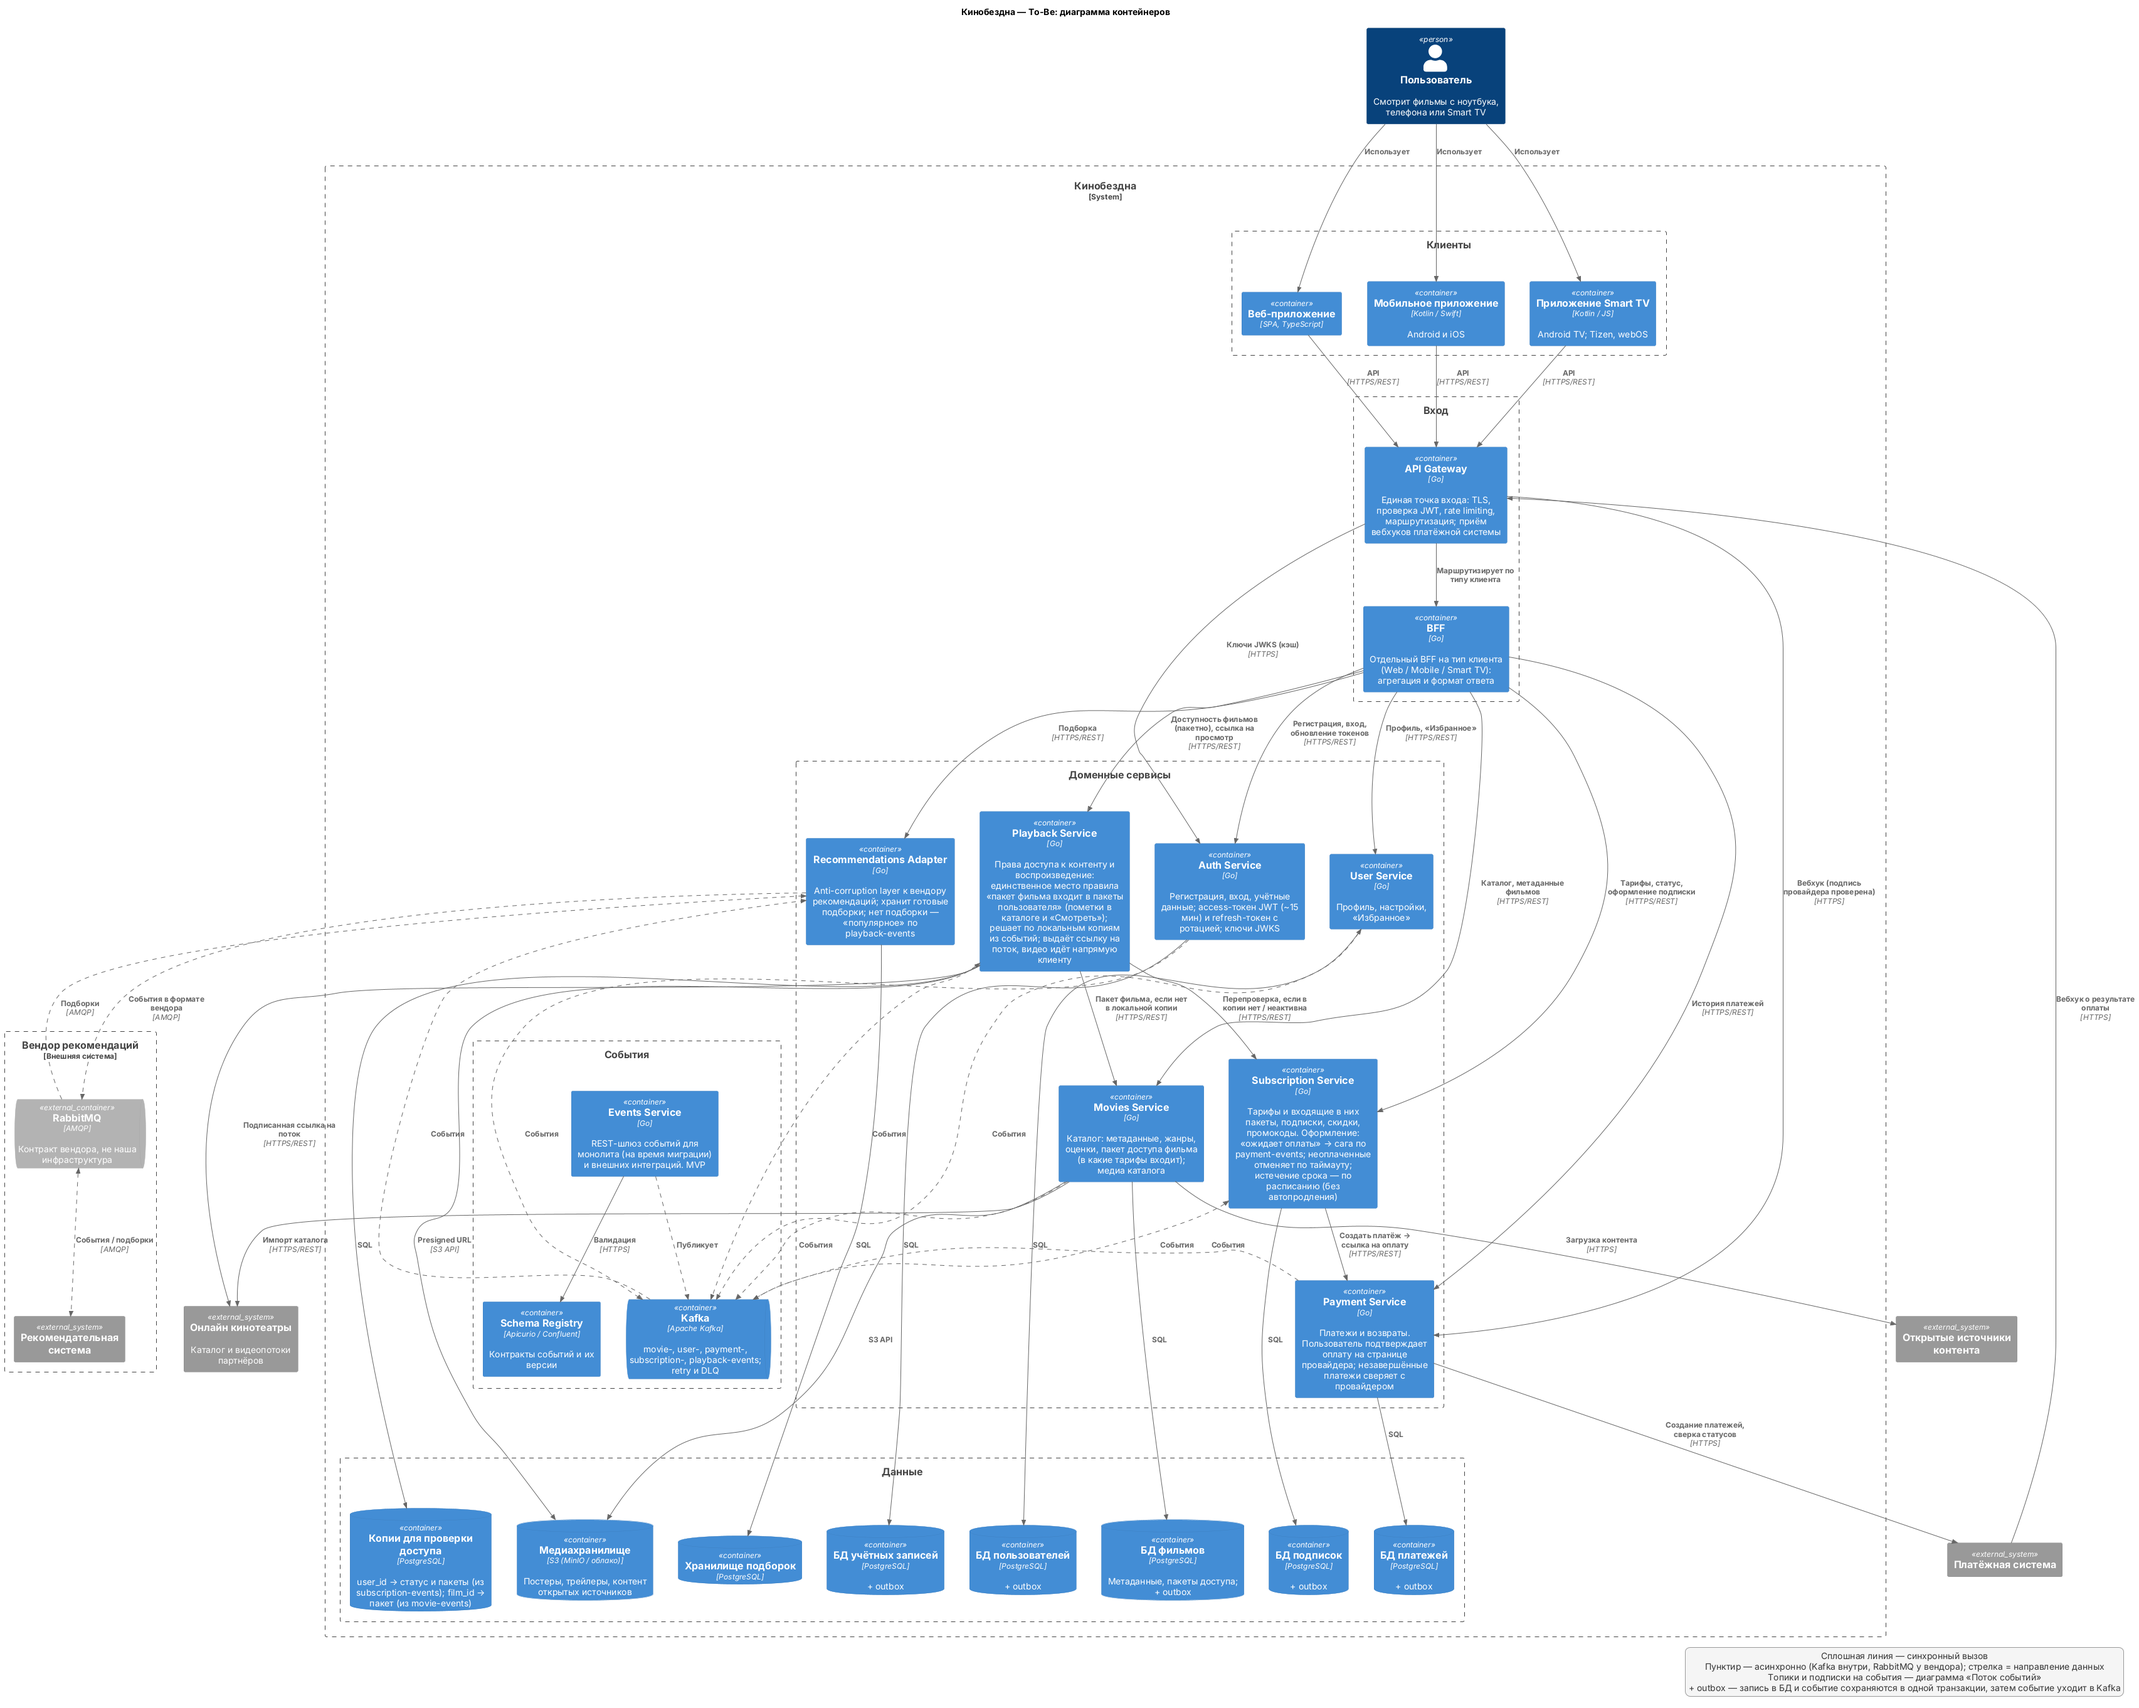
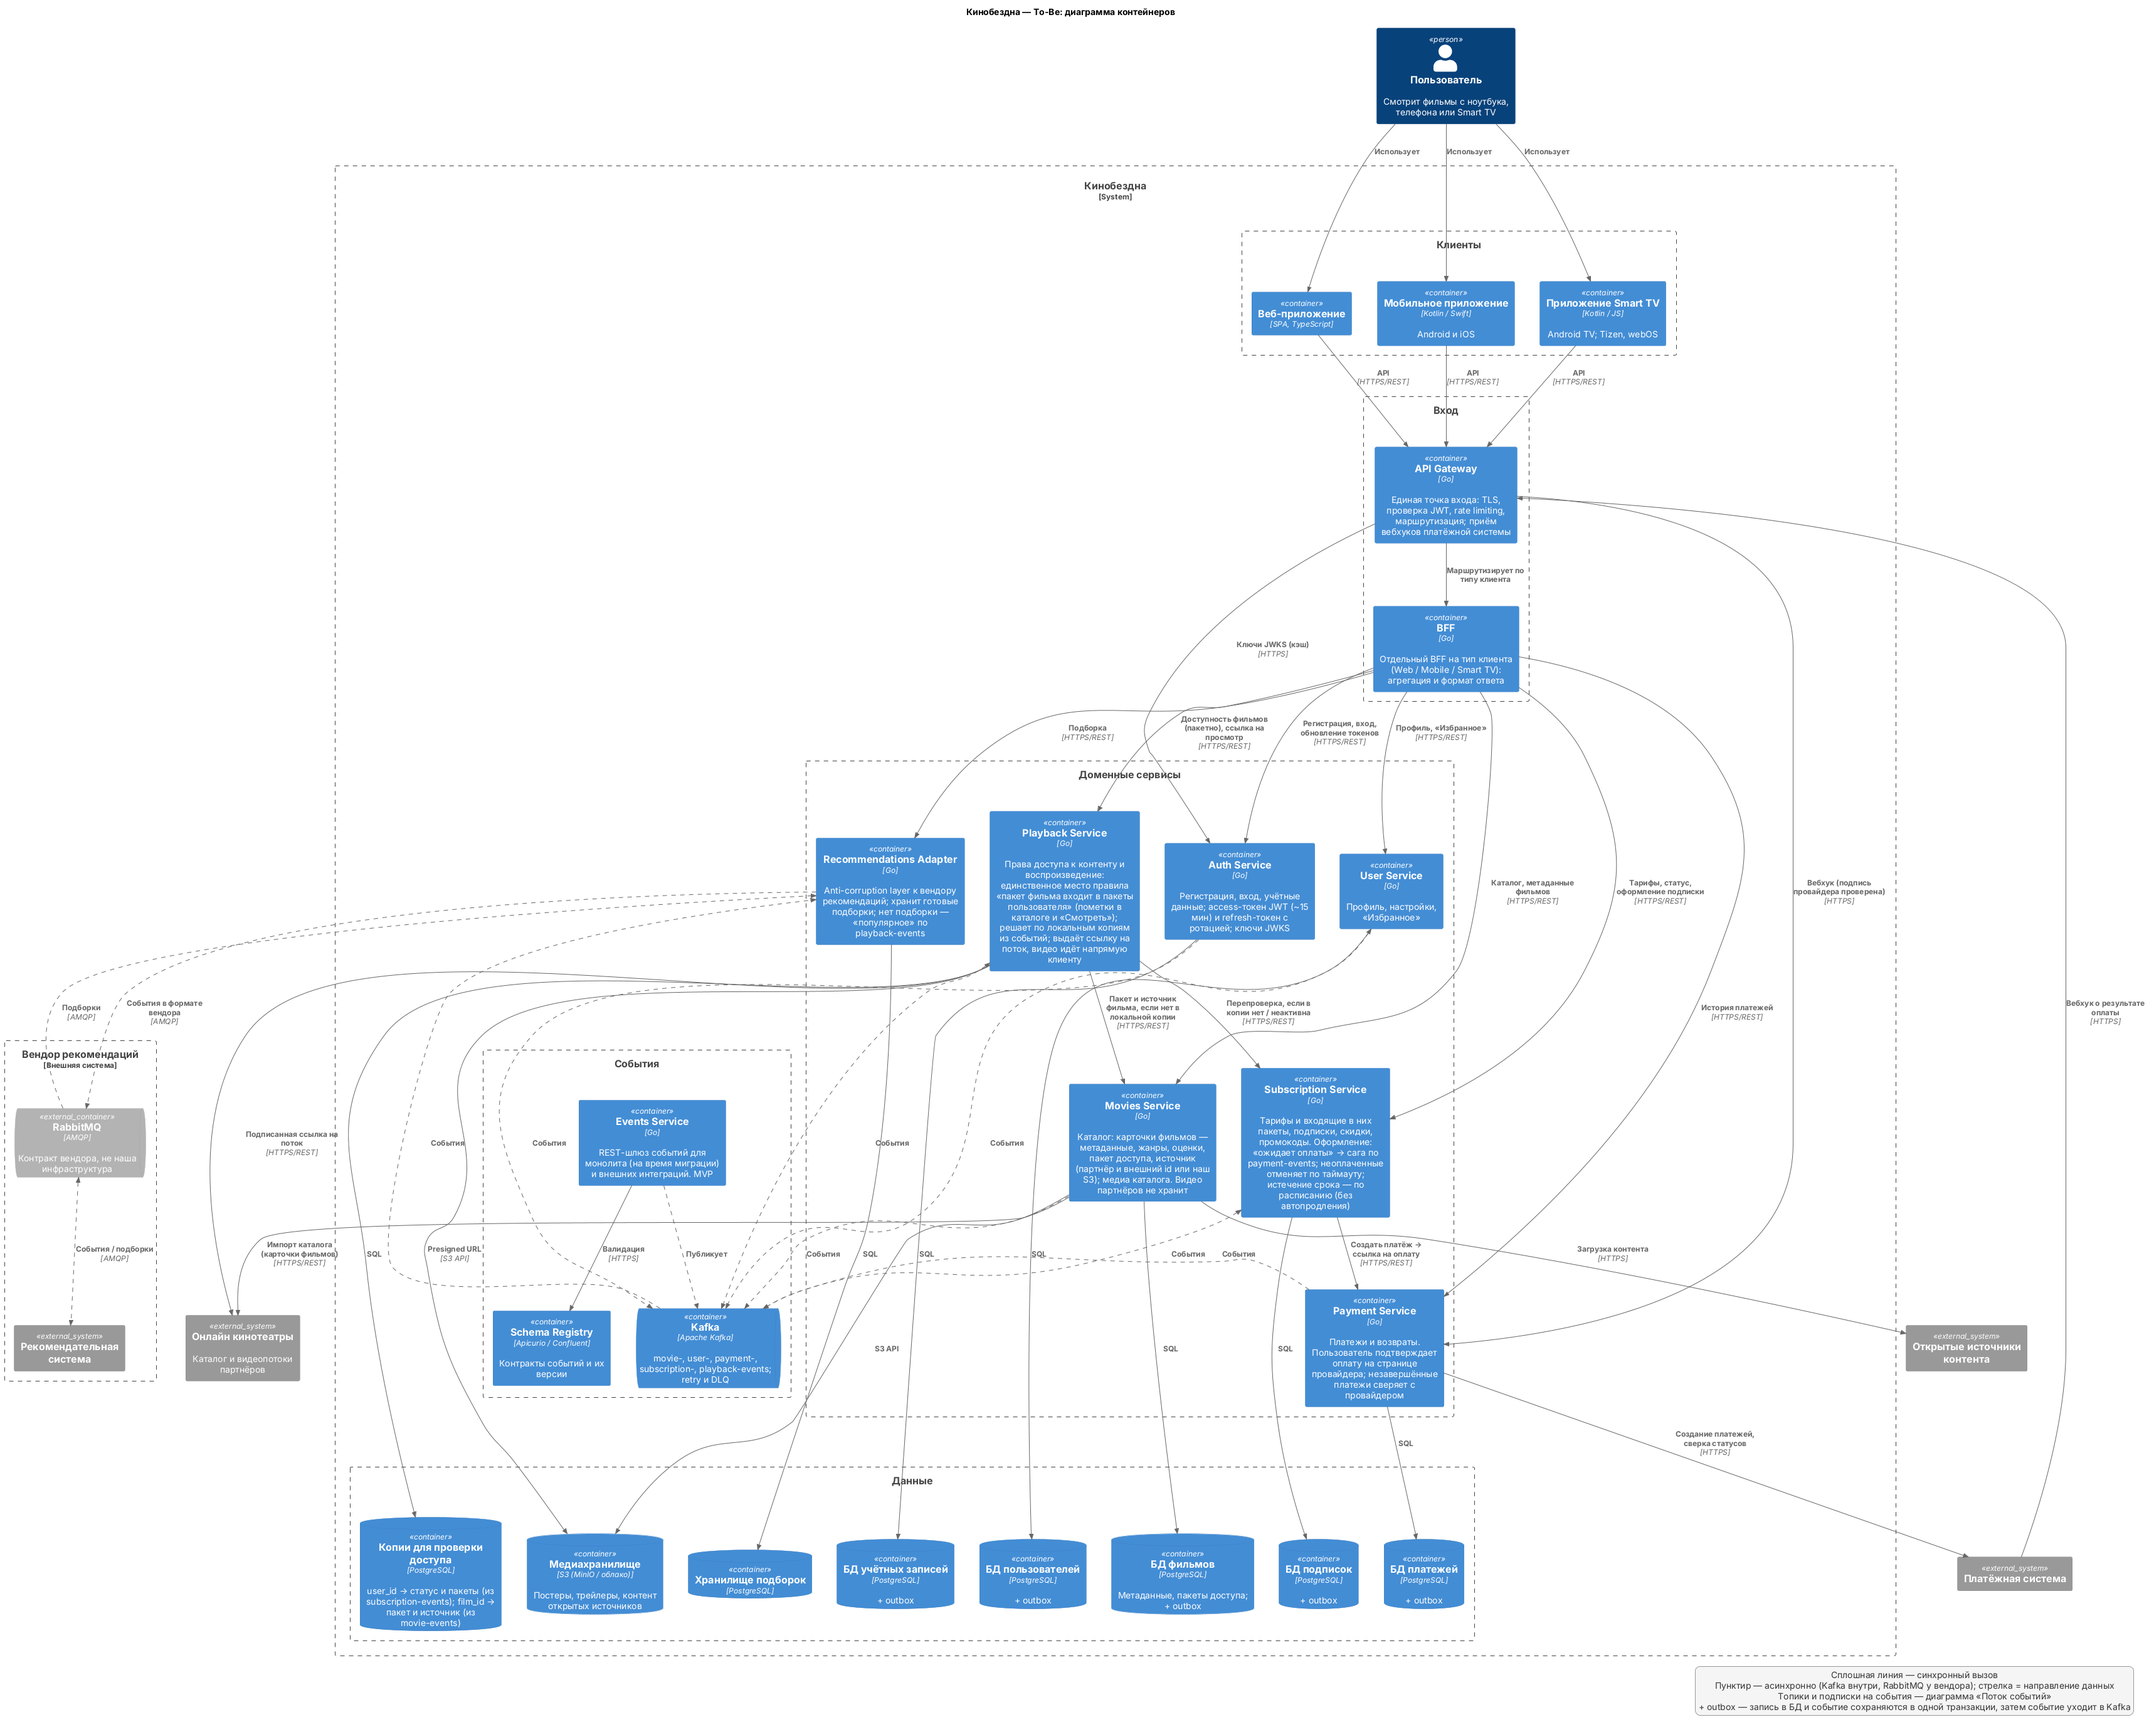
task1: подготовка каталога в сценарии; источник фильма в movie-events и копии Playback

diff --git a/Project_template.md b/Project_template.md
@@ -26,7 +26,7 @@
 |---|---|---|
 | Auth Service | Регистрация, вход, учётные данные, выпуск JWT, ключи JWKS | PostgreSQL |
 | User Service | Профиль, настройки, «Избранное»; профиль создаётся по событию регистрации | PostgreSQL |
-| Movies Service | Каталог: метаданные, жанры, оценки, пакет доступа фильма; импорт каталога партнёров, загрузка контента открытых источников | PostgreSQL + S3 (медиа) |
+| Movies Service | Каталог: карточки фильмов (метаданные, жанры, оценки, пакет доступа, источник — партнёр и внешний id или наш S3); импорт каталога партнёров, загрузка контента открытых источников. Видео партнёров не хранит | PostgreSQL + S3 (медиа) |
 | Subscription Service | Тарифы и входящие в них пакеты, подписки, скидки, промокоды; сага оформления | PostgreSQL |
 | Payment Service | Платежи и возвраты, интеграция с платёжной системой, приём вебхуков, сверка статусов | PostgreSQL |
 | Playback Service | Права доступа к контенту (доступность фильмов для каталога и проверка перед просмотром), выдача ссылки на поток | PostgreSQL (копии пакетов пользователей и фильмов) |
@@ -52,7 +52,7 @@
 2. **Подписки отдельно от платежей.** Подписка — права доступа (частое чтение), может возникать без оплаты (промокод, пробный период); платёж — деньги. Связь через `payment-events`.
 3. **Сага оформления подписки (хореография):** Subscription создаёт подписку «ожидает оплаты» и вызывает Payment → пользователь платит на странице провайдера → вебхук → `PaymentSucceeded` → подписка активирована. Отказ или таймаут → подписка отменена. Payment сверяет незавершённые платежи с провайдером. Автопродления нет: подписка на срок, по истечении Subscription публикует «истекла».
 4. **Права на контент.** Соответствие «тариф → пакеты» хранит Subscription и публикует пакеты пользователя в `subscription-events`; Movies хранит пакет каждого фильма; Playback проверяет, что пакет фильма входит в пакеты пользователя. Playback — **единственное место** этого правила: и пометки «входит в подписку» в каталоге (BFF запрашивает у Playback доступность списка фильмов), и решение при нажатии «Смотреть». Так экран и просмотр не могут разойтись, а показ каталога не нагружает Subscription.
-5. **Playback не зависит от Subscription и Movies на горячем пути:** держит локальные копии «пользователь → пакеты» из `subscription-events` и «фильм → пакет» из `movie-events` (топики с ключом и compaction — копии можно восстановить перечитыванием). Изменения подписки или пакета фильма доходят за секунды, без TTL. Если записи нет (только что оплатил, фильм только что добавлен) или подписка неактивна — синхронный запрос к владельцу данных (Subscription / Movies).
+5. **Playback не зависит от Subscription и Movies на горячем пути:** держит локальные копии «пользователь → пакеты» из `subscription-events` и «фильм → пакет и источник» из `movie-events` (топики с ключом и compaction — копии можно восстановить перечитыванием). Изменения подписки или пакета фильма доходят за секунды, без TTL. Если записи нет (только что оплатил, фильм только что добавлен) или подписка неактивна — синхронный запрос к владельцу данных (Subscription / Movies).
 6. **Видео не идёт через наш кластер:** Playback выдаёт подписанную временную ссылку, клиент смотрит напрямую с CDN партнёра или из нашего S3.
 7. **Рекомендации асинхронно** (условие кейса). Подборки хранятся у нас, сбой вендора не влияет на пользователя; для новых пользователей — «популярное» по `playback-events`.
 8. **Отказались от центрального сервиса событий** (всё через Events Service): единая точка отказа, невозможен outbox, потребителям всё равно нужны consumer groups и replay. Единообразие обеспечивают общая Go-библиотека, Schema Registry и соглашения по событиям.
